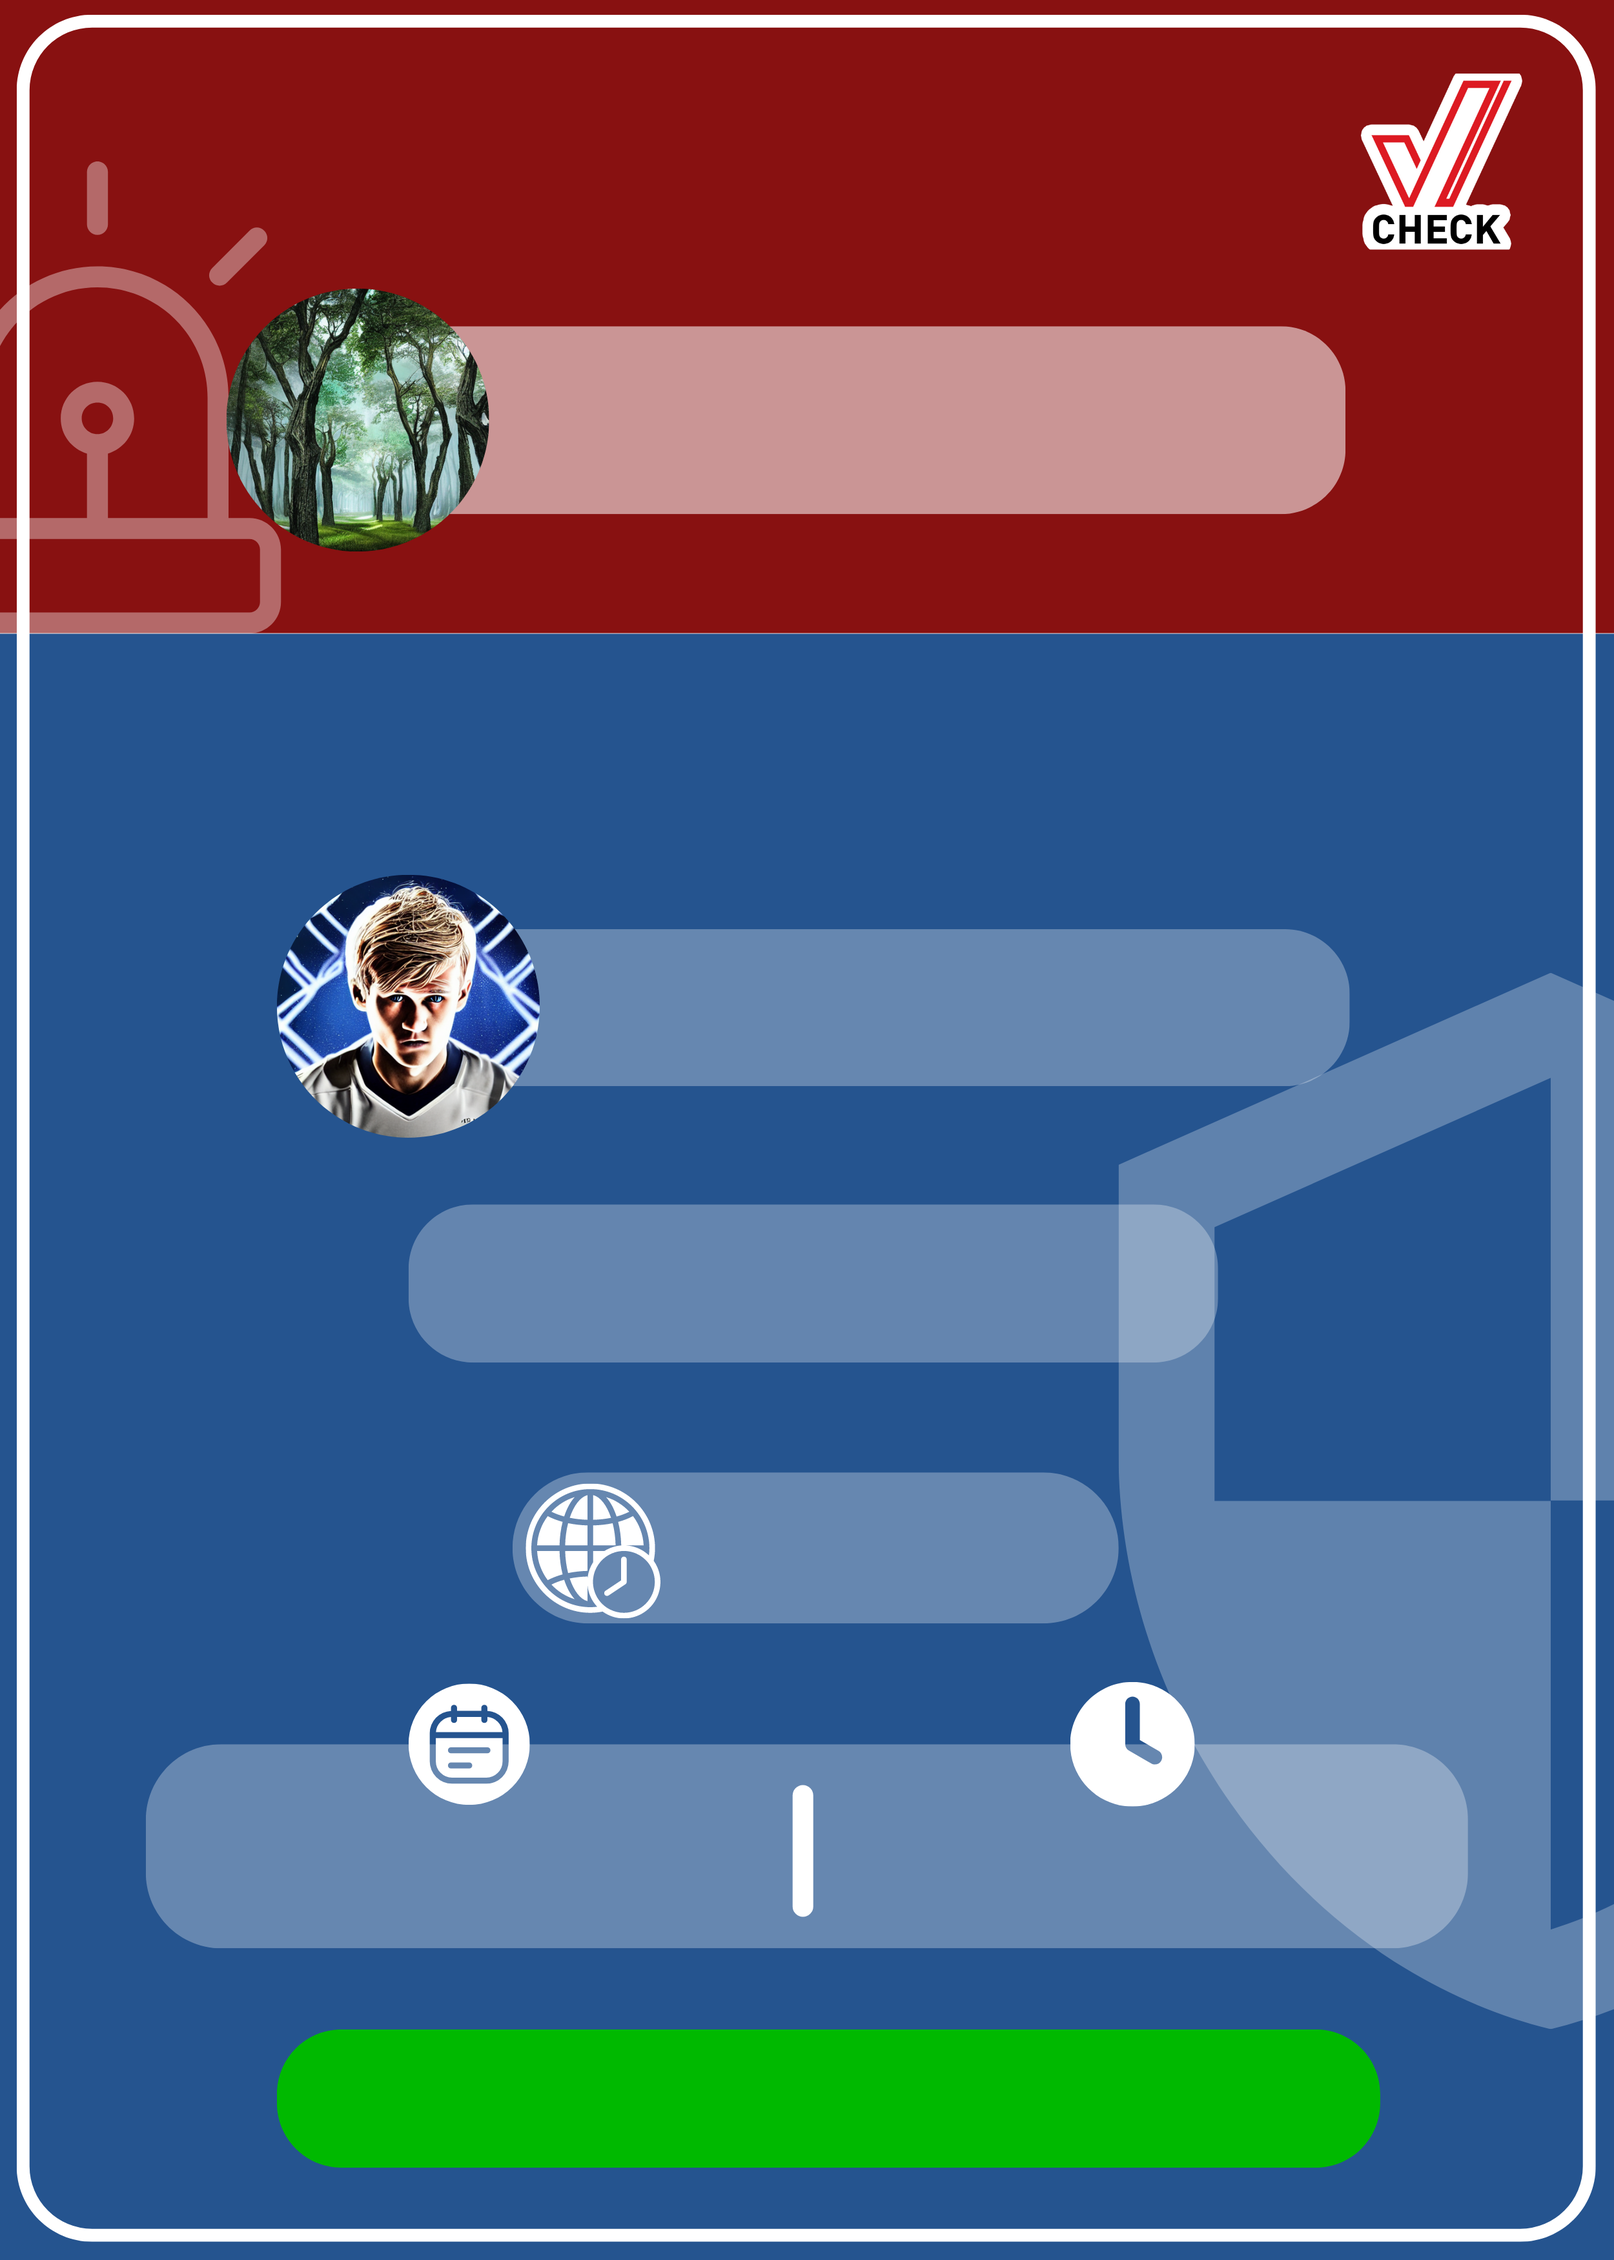
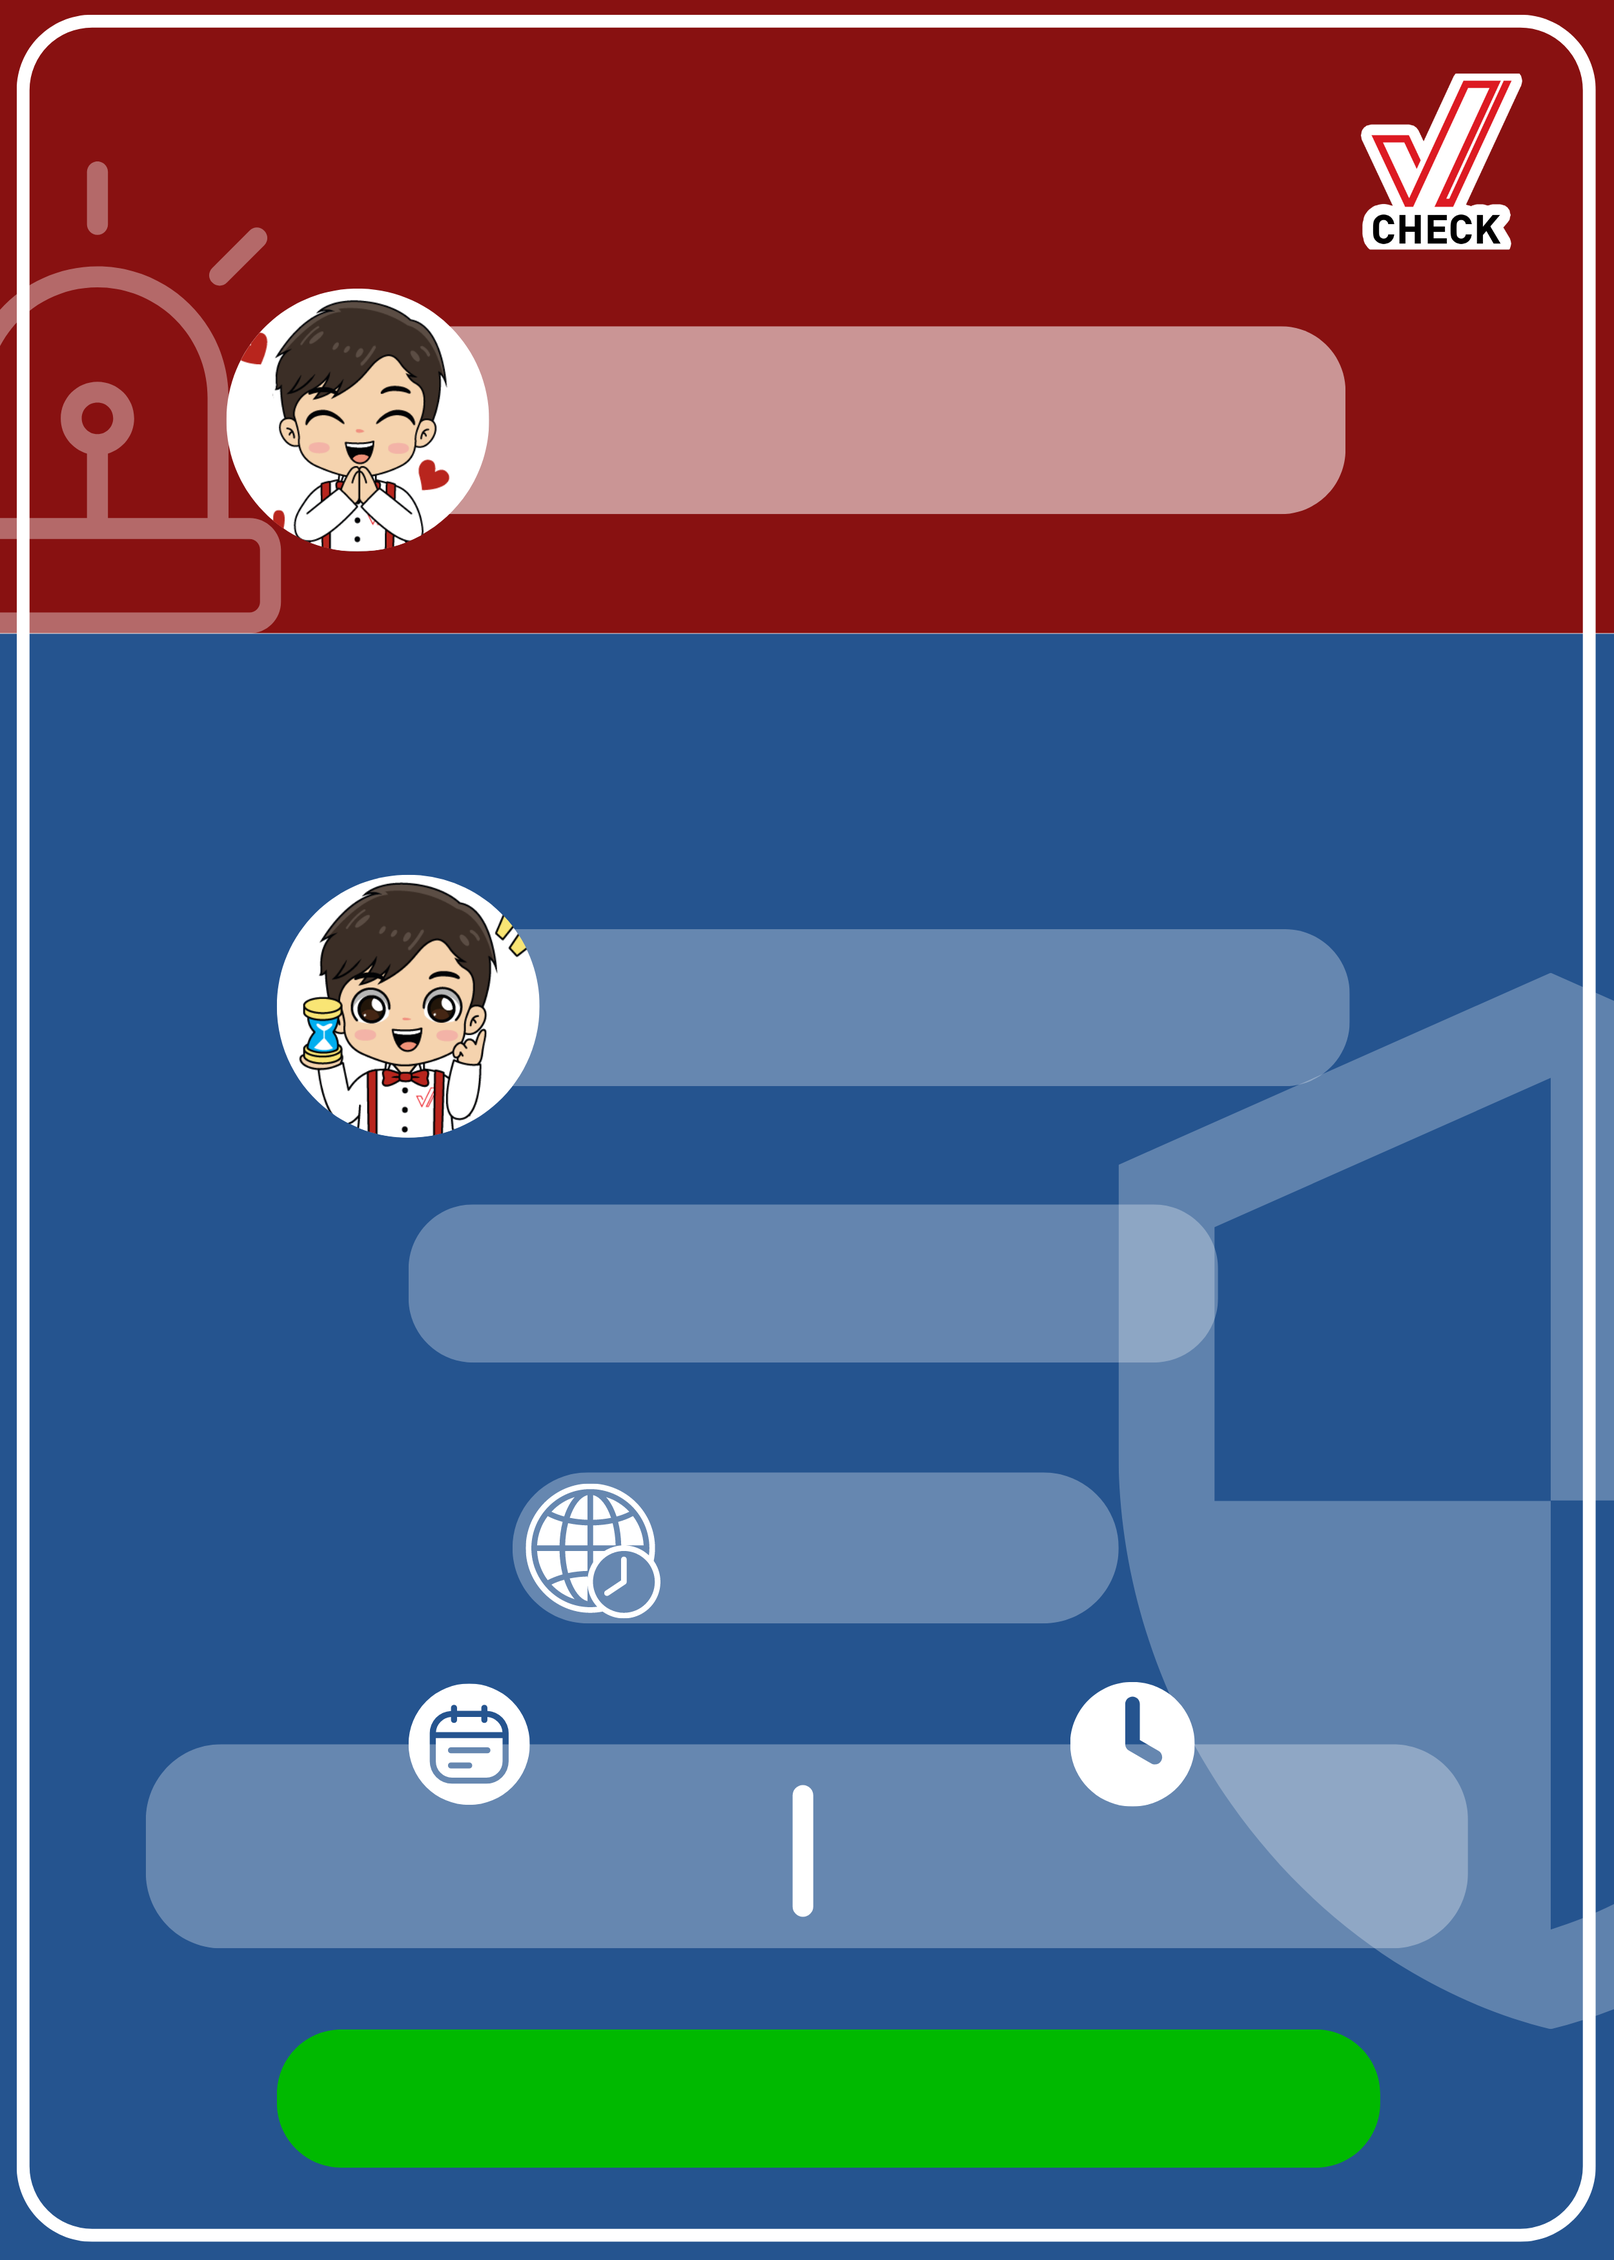
flex helper to groupline

Changed region(s): [[0.156, 0.3737, 0.3432, 0.5294], [0.1248, 0.1246, 0.312, 0.2491]]

diff --git a/app/Http/Controllers/API/LineApiController.php b/app/Http/Controllers/API/LineApiController.php
@@ -677,9 +677,42 @@ class LineApiController extends Controller
             $group_language = $key->language ;
         }
 
+        //user
+        $data_users = DB::table('users')->where('id', $data_sos_map->user_id)->get();
+        foreach ($data_users as $data_user) {
+
+            if (!empty($data_user->photo)) {
+                $photo_user = $data_user->photo ;
+            }
+            if (empty($data_user->photo)) {
+                $photo_user = $data_user->avatar ;
+            }
+        }
+
+        //helper
+        $data_helpers = DB::table('users')->where('id', $helper_id)->get();
+        foreach ($data_helpers as $data_helper) {
+
+            if (!empty($data_helper->photo)) {
+                $photo_helper = "https://www.viicheck.com/storage/".$data_helper->photo ;
+            }
+            if (empty($data_helper->photo)) {
+                $photo_helper = $data_helper->avatar ;
+            }
+        }
+
         // TIME ZONE
         $API_Time_zone = new API_Time_zone();
         $time_zone = $API_Time_zone->change_Time_zone($name_time_zone);
+
+        // datetime
+
+        $time_zone_explode = explode(" ",$time_zone);
+
+        $date = $time_zone_explode[0] ;
+        $time = $time_zone_explode[1] ;
+        $utc = $time_zone_explode[3] ;
+
 
         $data_topic = [
                     "การขอความช่วยเหลือ",
@@ -705,16 +738,24 @@ class LineApiController extends Controller
         $string_json = file_get_contents($template_path);
            
         $string_json = str_replace("ตัวอย่าง",$data_topic[0],$string_json);
-        $string_json = str_replace("date_time",$time_zone,$string_json);
 
         $string_json = str_replace("การขอความช่วยเหลือ",$data_topic[0],$string_json);
         $string_json = str_replace("เจ้าหน้าที่",$data_topic[1],$string_json);
         $string_json = str_replace("การช่วยเหลือเสร็จสิ้น",$data_topic[2],$string_json);
         $string_json = str_replace("กำลังไปช่วยเหลือ",$data_topic[3],$string_json);
 
+        // user
         $string_json = str_replace("name_user",$data_sos_map->name,$string_json);
+        $string_json = str_replace("photo_user",$photo_user,$string_json);
+        // helper
         $string_json = str_replace("name_helper",$name_helper,$string_json);
+        $string_json = str_replace("photo_helper", $photo_helper,$string_json);
+    
         $string_json = str_replace("id_sos_map",$data_sos_map->id,$string_json);
+        $string_json = str_replace("date",$date,$string_json);
+        $string_json = str_replace("time",$time,$string_json);
+        $string_json = str_replace("UTC","UTC"+ $utc,$string_json);
+        
 
         $messages = [ json_decode($string_json, true) ];
 
